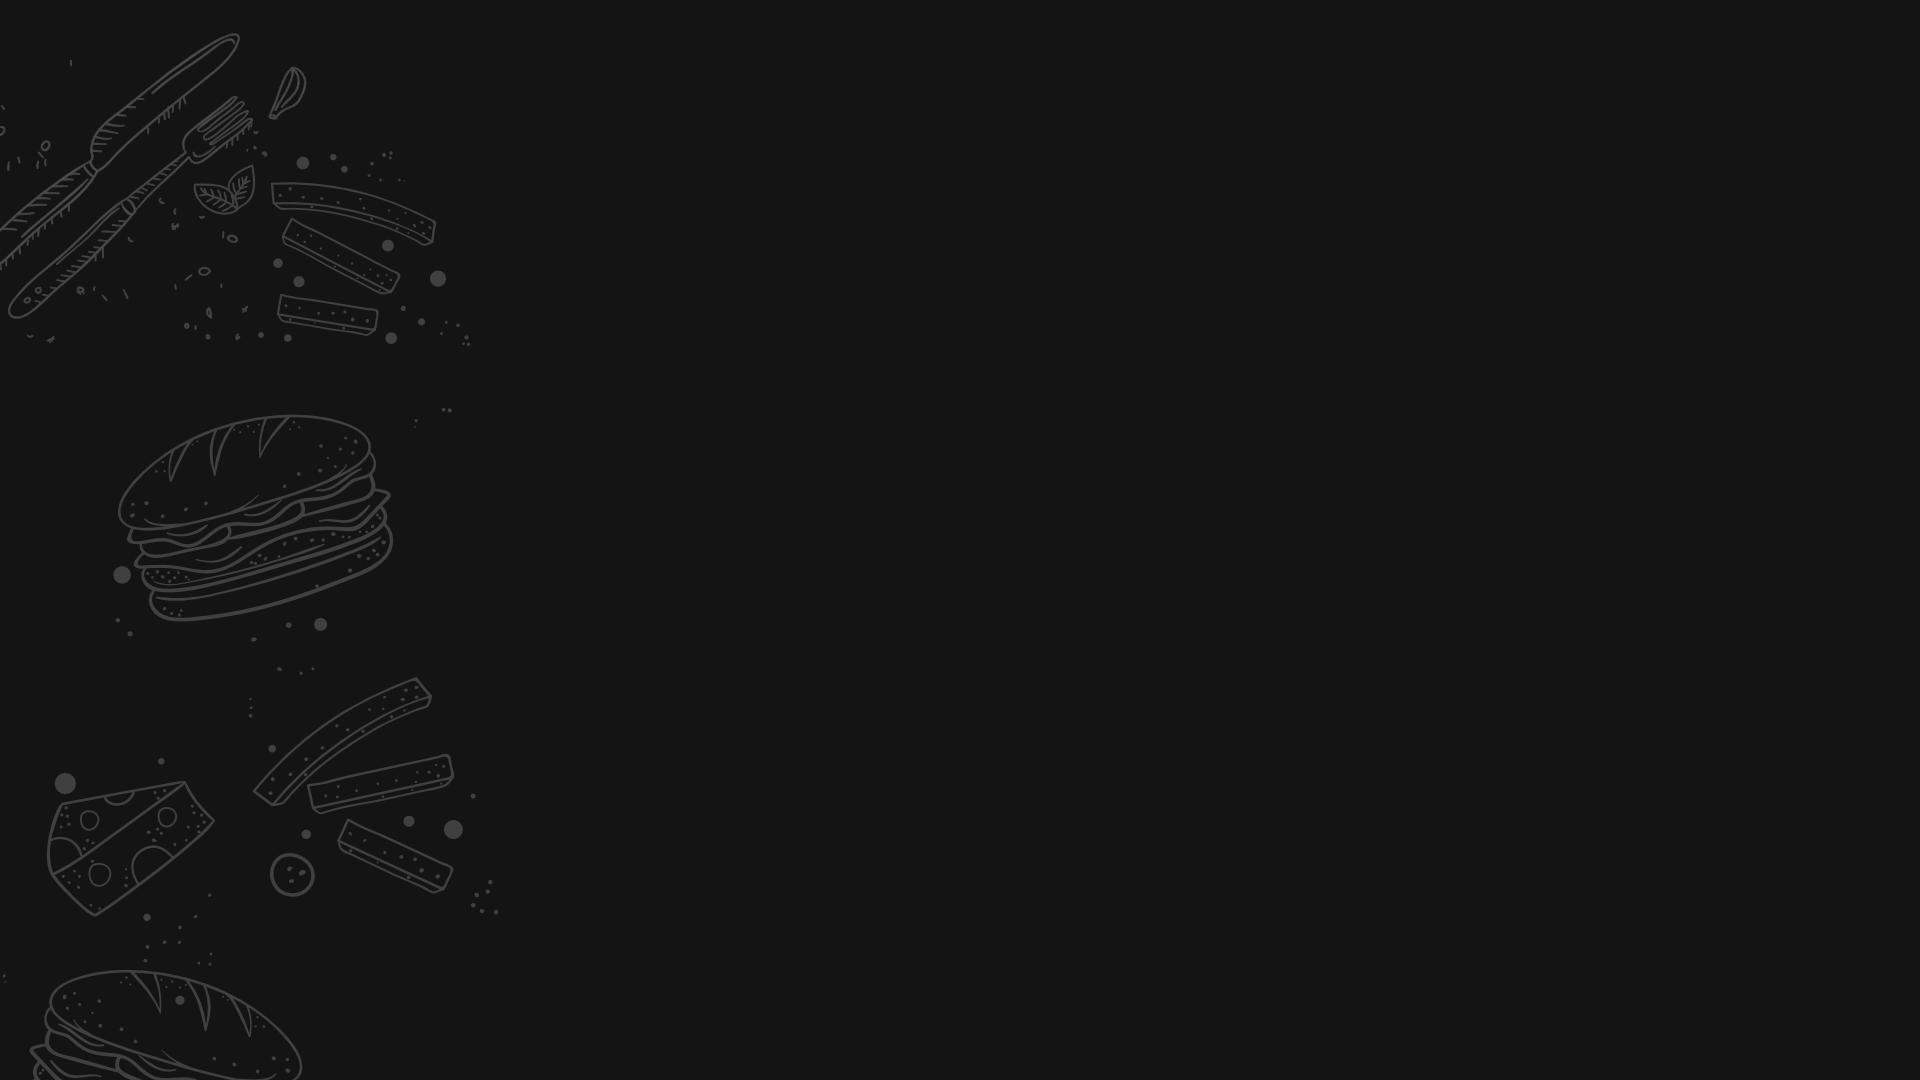
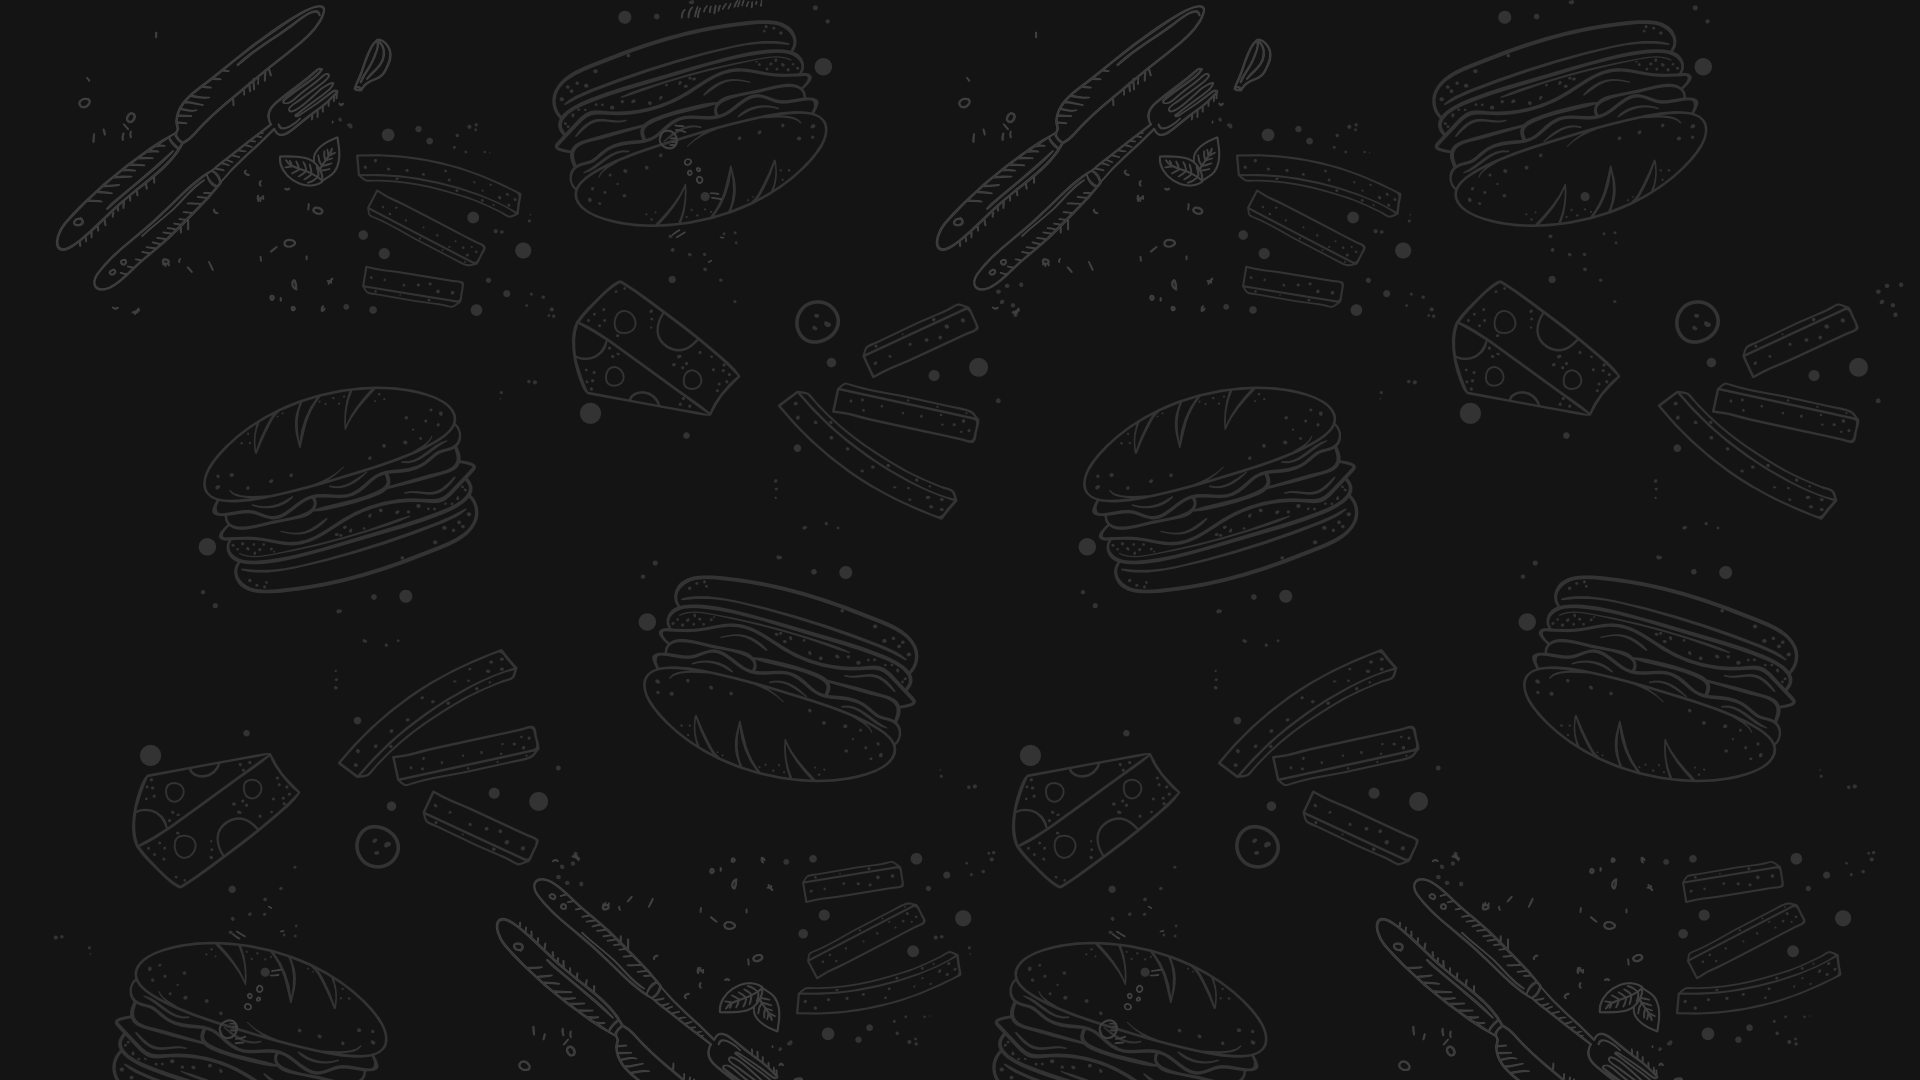
Changed styling on tables and backgrounds

diff --git a/app/templates/index.html b/app/templates/index.html
@@ -3,11 +3,11 @@
 
 <div class="main" id="pizza">
   <div class="container menupadding" align="center">
-    <img src="{{url_for('static',filename='pizza-icon.png')}}" alt="" class="mb-5">
+    <img src="{{url_for('static',filename='pizza-icon.png')}}" alt="" class="mb-5 img-fluid">
     <!-- <h1 class="display-5 title-style">PIZZAMENY</h1> -->
     <table class="table" style="color: white;">
       <thead>
-        <tr>
+        <tr align="left">
           <th scope="<col>">Navn</th>
           <th scope="<col>">Ingredienser</th>
           <th scope="<col>">Pris</th>
@@ -15,7 +15,7 @@
       </thead>
       <tbody>
           {%for pizza in pizzamenu%}
-        <tr>
+        <tr align="left">
         <th scope="row"><b>{{pizza.id}}. {{pizza.title}}</b></th>
         <td class="font-weight-bold">{{pizza.description}}</td>
         <td class="font-weight-bold">{{pizza.price}},-</td>
@@ -27,11 +27,11 @@
 </div>
 <div class="main" id="grill">
   <div class="container menupadding" align="center">
-    <img src="{{url_for('static',filename='grill-icon.png')}}" alt="" class="mb-5">
+    <img src="{{url_for('static',filename='grill-icon.png')}}" alt="" class="mb-5 img-fluid">
     <!-- <h1 class="display-5 title-style">GRILLMENY</h1> -->
     <table class="table" style="color: white;">
       <thead>
-        <tr>
+        <tr align="left">
           <th scope="<col>">Navn</th>
           <th scope="<col>">Info</th>
           <th scope="<col>">L</th>
@@ -41,7 +41,7 @@
       </thead>
       <tbody>
           {%for grill in grillmenu%}
-        <tr>
+        <tr align="left">
         <th scope="row"><b>{{grill.id}}. {{grill.title}}</b></th>
         <td>{{grill.description}}</td>
         <td>{{grill.price_small}}</td>
@@ -55,11 +55,11 @@
 </div>
 <div class="main" id="thai">
   <div class="container menupadding" align="center">
-    <img src="{{url_for('static',filename='thai-icon.png')}}" alt="" class="mb-5">
+    <img src="{{url_for('static',filename='thai-icon.png')}}" alt="" class="mb-5 img-fluid">
     <!-- <h1 class="display-5 title-style">THAIMENY</h1> -->
     <table class="table" style="color: white;">
       <thead>
-        <tr>
+        <tr align="left">
           <th scope="<col>">Navn</th>
           <th scope="<col>">Ingredienser</th>
           <th scope="<col>">Pris</th>
@@ -67,8 +67,8 @@
       </thead>
       <tbody>
           {%for thai in thaimenu%}
-        <tr>
-        <th scope="row"><b>{{thai.id}}.{{thai.title}}</b></th>
+        <tr align="left">
+        <th scope="row"><b>{{thai.id}}. {{thai.title}}</b></th>
         <td>{{thai.description}}</td>
         <td>{{thai.price}}</td>
         </tr>

diff --git a/app/static/css/main.css b/app/static/css/main.css
@@ -29,25 +29,30 @@ body{
   height: 100%;
   min-height: 500px;
   padding-bottom: 50px;
+  background-image: url(/static/pizza-doodle.png);
   background-color: rgb(20,20,20);
   background-size: cover;
   background-position: center;
   background-repeat: no-repeat;
+  border-bottom: 5px solid rgb(207, 0, 6);
 }
 
 #grill {
   height: 100%;
   min-height: 500px;
   padding-bottom: 50px;
+  background-image: url(/static/grill-doodle.png);
   background-color: rgb(20,20,20);
   background-size: cover;
   background-position: center;
   background-repeat: no-repeat;
+  border-bottom: 5px solid rgb(207, 0, 6);
 }
 #thai {
   height: 100%;
   min-height: 500px;
   padding-bottom: 50px;
+  background-image: url(/static/thai-doodle.png);
   background-color: rgb(20,20,20);
   background-size: cover;
   background-position: center;
